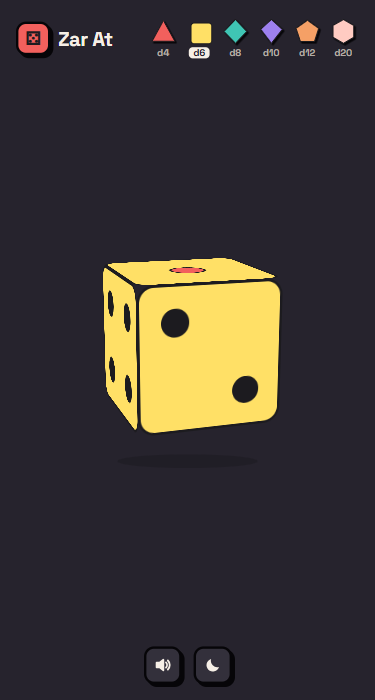
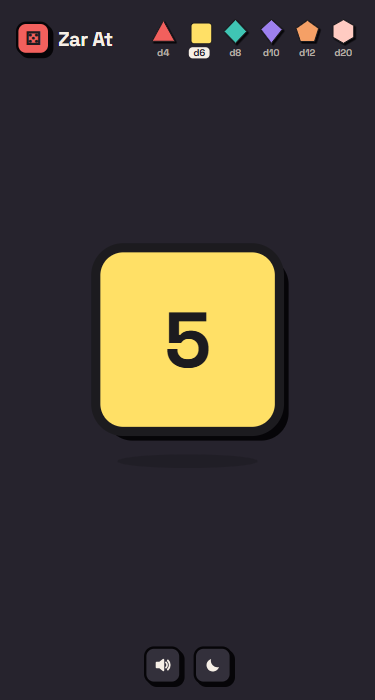
d6'yı diğer zarlarla aynı yapıya getir (3D küp kaldırıldı)

Changed region(s): [[0.264, 0.36, 0.792, 0.63]]

diff --git a/index.html b/index.html
@@ -181,62 +181,14 @@
     100% { transform: scale(1); }
   }
 
-  /* d6: gerçek 3D küp */
-  .scene { --s: 140px; width: var(--s); height: var(--s); perspective: 800px; }
-  .tilt { width: 100%; height: 100%; transform-style: preserve-3d; transform: rotateX(-14deg) rotateY(18deg); }
-  .hop { width: 100%; height: 100%; transform-style: preserve-3d; }
-  .rolling .hop { animation: hop .8s cubic-bezier(.3,.6,.4,1) both; }
-  .landed .hop { animation: tak .16s ease-out; }
-  @keyframes hop {
-    0% { transform: translateY(0); }
-    40% { transform: translateY(-64px); }
-    72% { transform: translateY(0); }
-    84% { transform: translateY(-12px); }
-    100% { transform: translateY(0); }
-  }
-  .cube {
-    position: relative;
-    width: 100%; height: 100%;
-    transform-style: preserve-3d;
-    transition: transform .8s cubic-bezier(.25,.75,.3,1);
-  }
-  .face {
-    position: absolute; inset: 0;
-    background: var(--yellow);
-    border: 3px solid var(--ink);
-    border-radius: 16px;
-    display: grid;
-    grid-template: repeat(3, 1fr) / repeat(3, 1fr);
-    padding: 16px;
-    backface-visibility: hidden;
-  }
-  .face i {
-    width: 26px; height: 26px;
-    border-radius: 50%;
-    background: var(--ink);
-    place-self: center;
-  }
-  .face.f1 i { width: 36px; height: 36px; background: var(--red); border: 3px solid var(--ink); }
-  .f1 { transform: translateZ(calc(var(--s) / 2)); }
-  .f6 { transform: rotateY(180deg) translateZ(calc(var(--s) / 2)); }
-  .f3 { transform: rotateY(90deg) translateZ(calc(var(--s) / 2)); }
-  .f4 { transform: rotateY(-90deg) translateZ(calc(var(--s) / 2)); }
-  .f5 { transform: rotateX(90deg) translateZ(calc(var(--s) / 2)); }
-  .f2 { transform: rotateX(-90deg) translateZ(calc(var(--s) / 2)); }
-
   .shadow-blob {
     position: absolute; left: 50%; bottom: 4%;
     width: 140px; height: 14px; margin-left: -70px;
     background: var(--line); opacity: .18; border-radius: 50%;
     transition: background .2s ease, opacity .2s ease;
   }
-  [data-type="d6"].crit-max .shadow-blob { background: var(--green); opacity: .9; }
-  [data-type="d6"].crit-min .shadow-blob { background: var(--red); opacity: .9; }
   .rolling .shadow-blob { animation: blob .8s ease both; }
   @keyframes blob { 40% { transform: scale(.55); opacity: .08; } 100% { transform: scale(1); } }
-
-  [data-type="d6"] .big-svg { display: none; }
-  .die-btn:not([data-type="d6"]) .scene { display: none; }
 
   .hint { margin: 0; font-size: .85rem; color: var(--muted); min-height: 1.2em; transition: opacity .3s ease; }
   .hint.gone { opacity: 0; }
@@ -281,9 +233,6 @@
         <g id="bigShape"></g>
         <text class="num" id="bigNum" x="50" y="50" font-size="30">?</text>
       </svg>
-      <div class="scene" aria-hidden="true">
-        <div class="tilt"><div class="hop"><div class="cube" id="cube"></div></div></div>
-      </div>
     </button>
     <p class="hint" id="hint">Atmak için zara dokun</p>
     <span id="live" aria-live="polite" style="position:absolute;width:1px;height:1px;overflow:hidden;clip:rect(0 0 0 0)"></span>
@@ -329,7 +278,7 @@
 
   var $ = function (id) { return document.getElementById(id); };
   var picker = $('picker'), dieBtn = $('dieBtn'), bigShape = $('bigShape'), bigNum = $('bigNum');
-  var cube = $('cube'), hint = $('hint'), live = $('live');
+  var hint = $('hint'), live = $('live');
   var soundBtn = $('soundBtn'), themeBtn = $('themeBtn');
 
   // ---------- Rastgelelik (crypto, sapmasız) ----------
@@ -407,37 +356,6 @@
     bigNum.textContent = '?';
   }
 
-  // ---------- 3D küp ----------
-  var PIPS = { 1: [5], 2: [1, 9], 3: [1, 5, 9], 4: [1, 3, 7, 9], 5: [1, 3, 5, 7, 9], 6: [1, 3, 4, 6, 7, 9] };
-  for (var v = 1; v <= 6; v++) {
-    var f = document.createElement('div');
-    f.className = 'face f' + v;
-    f.innerHTML = PIPS[v].map(function (p) {
-      return '<i style="grid-area:' + (Math.ceil(p / 3)) + '/' + (((p - 1) % 3) + 1) + '"></i>';
-    }).join('');
-    cube.appendChild(f);
-  }
-  // Her yüzü öne getiren küp dönüşü = o yüzün dönüşünün tersi
-  var FACE_ROT = { 1: [0, 0], 2: [90, 0], 3: [0, -90], 4: [0, 90], 5: [-90, 0], 6: [0, 180] };
-  var rx = 0, ry = 0;
-  function nextAngle(cur, base, minTurns) {
-    return base + 360 * Math.ceil((cur + 360 * minTurns - base) / 360);
-  }
-  function showCube(value, animate) {
-    var t = FACE_ROT[value];
-    if (animate) {
-      rx = nextAngle(rx, t[0], 2);
-      ry = nextAngle(ry, t[1], 1);
-      cube.style.transition = '';
-    } else {
-      rx = t[0]; ry = t[1];
-      cube.style.transition = 'none';
-    }
-    cube.style.transform = 'rotateX(' + rx + 'deg) rotateY(' + ry + 'deg)';
-    cube.dataset.value = value;
-  }
-  showCube(1, false);
-
   // ---------- Atış ----------
   function roll() {
     if (rolling) return;
@@ -450,17 +368,16 @@
     dieBtn.classList.remove('crit-max', 'crit-min', 'shake', 'landed', 'rolling');
     void dieBtn.offsetWidth; // animasyonu yeniden başlat
 
-    if (key === 'd6') showCube(value, !reduced);
     var cycle = null;
     if (!reduced) {
       dieBtn.classList.add('rolling');
-      if (key !== 'd6') cycle = setInterval(function () { bigNum.textContent = randInt(d.sides); }, 55);
+      cycle = setInterval(function () { bigNum.textContent = randInt(d.sides); }, 55);
       tick(900, 0.08);
     }
 
     setTimeout(function () {
       if (cycle) clearInterval(cycle);
-      if (key !== 'd6') bigNum.textContent = value;
+      bigNum.textContent = value;
       dieBtn.classList.remove('rolling');
       if (!reduced) dieBtn.classList.add('landed');
       land(key, value, d.sides, reduced);

diff --git a/README.md b/README.md
@@ -12,7 +12,7 @@ Neo Brutalism tasarımlı, telefonda ve bilgisayarda çalışan basit bir zar at
 ## Özellikler
 
 - Sade arayüz: sağ üstte minik zar ikonları, ortada sadece zar — zara dokun, at
-- d6 için gerçek 3D CSS küpü; diğer zarlar kendi silüetinde döner, zıplar ve sonuca oturur
+- Her zar kendi silüetinde (d4 üçgen, d6 kare, d8 eşkenar dörtgen, d10 uçurtma, d12 beşgen, d20 altıgen) döner, zıplar ve sonuca oturur
 - Boşluk / Enter ile ya da telefonu sallayarak da atılabilir (iOS'ta izin zara ilk dokunuşta istenir)
 - Kritik sonuçlar: en yüksek değerde konfeti + yeşil gölge, 1 gelince sarsılma + kırmızı gölge
 - `crypto.getRandomValues` ile sapmasız rastgelelik
